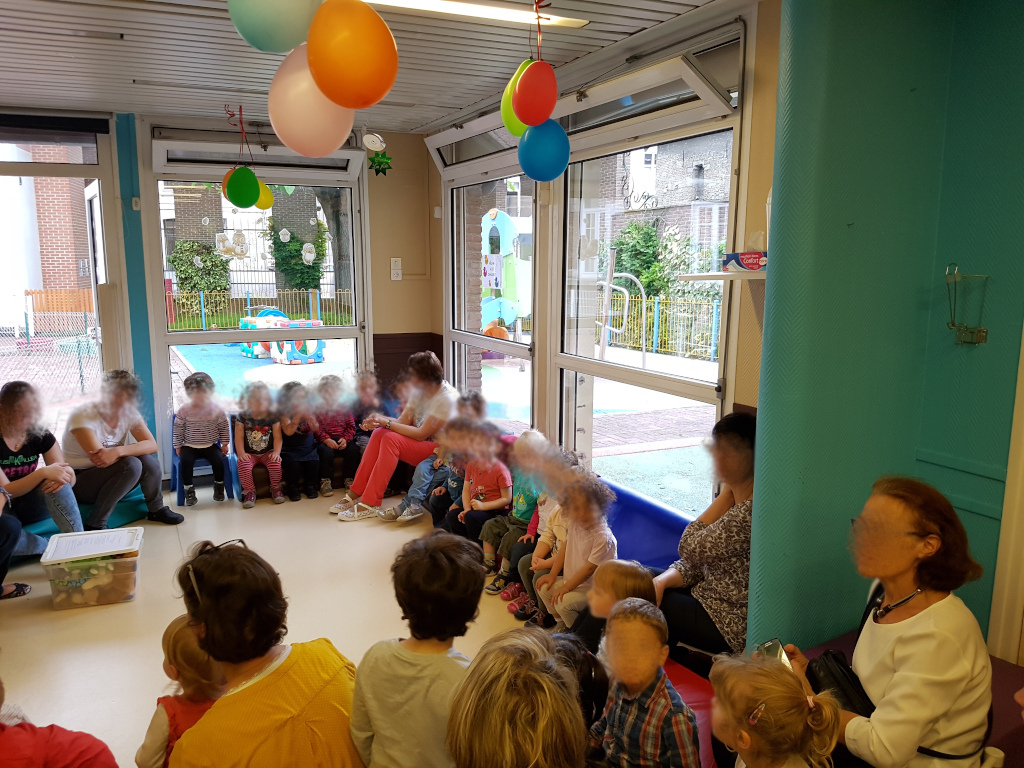
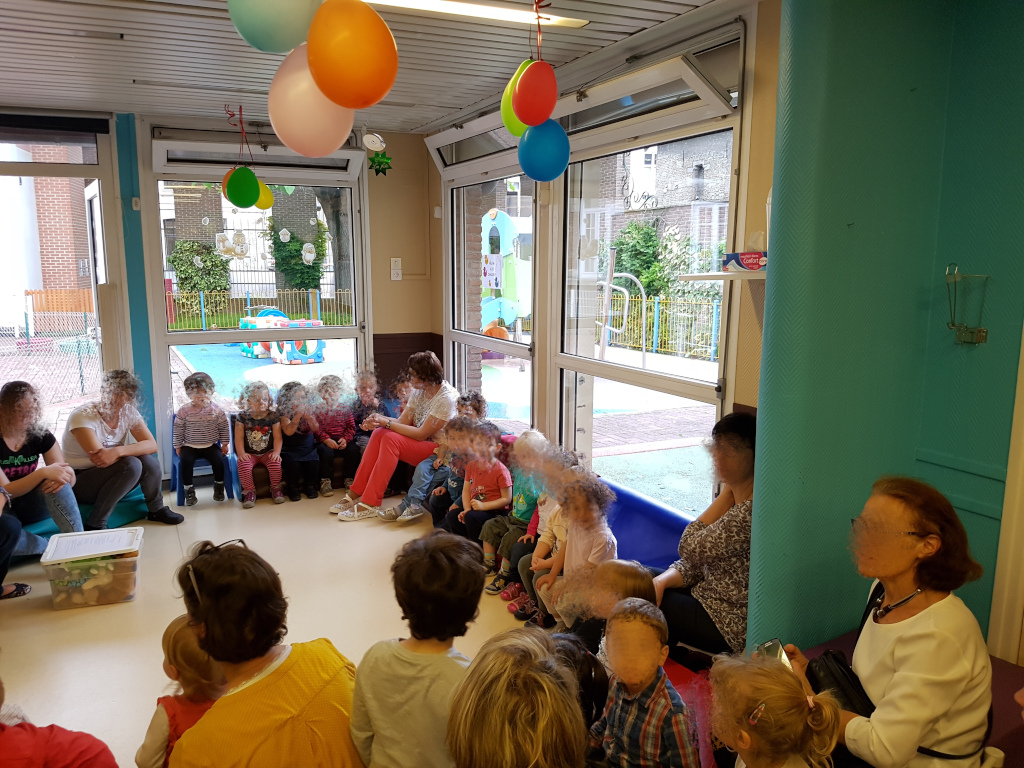
feat(contents): update blog post

diff --git a/contents/blog/2026-01-30-frederic-chereau-douai-toujours.md b/contents/blog/2026-01-30-frederic-chereau-douai-toujours.md
@@ -39,7 +39,7 @@ De son propre aveu, Frédéric Chéreau « préfère un campagne courte et inte
 
 ## Un nom de liste étrange
 
-Après deux mandats à la tête de la ville, Douai Toujours résonne étrangement, s'agit-t-il de subconsciemment installer Frédéric Chéreau comme un maire pour toujours ? Je ne suis pas fan du tout. Je préférai Douai au Cœur, le nom de liste de 2020.
+Après deux mandats à la tête de la ville, Douai Toujours résonne étrangement, s’agit-t-il de subconsciemment installer Frédéric Chéreau comme un maire pour toujours ? Je ne suis pas fan du tout. Je préférai Douai au Cœur, le nom de liste de 2020.
 
 ## Un gros couac sur la communication
 
@@ -91,11 +91,11 @@ Douai Collectif a toujours proposé cette union de second tour au ratio des vote
 
 ## Liste telle que découverte sur le site de Douai Toujours
 
-Elle semble incomplète, probablement dû aux défections exprimées sur Facebook de deux personnes déçues de ne pas être éligible. Je la mettrai à jour quand elle sera de nouveau visible.
+Elle semble incomplète, probablement dû aux défections exprimées sur Facebook de deux personnes déçues de ne pas être éligible. Je la mettrai à jour quand elle sera de nouveau visible (la liste a été mise à jour avec celle déposée, on note l’absence au final de Malek HAMROUNI remplacé par Matteo ROSSI).
 
 1. Frédéric CHEREAU
 2. Agnès De BEUKELAER
-3. Mohamed KHERAKI
+3. Mohamed KHÉRAKI
 4. Auriane DELBARRE
 5. Hocine MAZY
 6. Maryse CARLIER
@@ -111,31 +111,30 @@ Elle semble incomplète, probablement dû aux défections exprimées sur Faceboo
 16. Carolle DIVRECHY
 17. Michaël DOZIERE
 18. Mélanie DECUPPER-LAUD
-19. Sebastien LENCLU
+19. Sebastien LANCLU
 20. Christine DERICQ
 21. Mohamed FELOUKI
-22. Céline VASSEUR
+22. Céline VASSEUR DUHIN
 23. Yves PIQUOT
-24. Maëlys RODICQ-TOUCHON
+24. Maëlys RODICQ TOUCHON
 25. Jimmy BIA
 26. Meïssa LEGRAND-REZGUI
 27. Théo IBERRAKENE
-28. Maelys RODICQ TOUCHON
+28. Sophie GILLOT
 29. Guy LAGACHE
-30. Sylvie FERON
-31. Malek HAMROUNI
-32. Sophie GILOT
+30. Sylvie FÉRON
+31. Matteo ROSSI
+32. Fabienne WINNE
 33. Adam STIVALA
 34. Karine VEYNACHTER
 35. Louis DEBRABANT
-36. Avida OULHACENE
+36. Émilie DENUDT
 37. Emmanuel BEAUMONT
 38. Séverine DUEZ
 39. Samuel MEKA
-40. ?
-41. ?
-42. Fabienne WINNE
+40. Avida OULAHCENE
+41. Alain MERIAUX
+42. Bernadette GWIZDEK
 43. Francis FREMAUX
-44. Bernadette PORA
+44. Denise LEBEAU
 45. Daniel SELLIER
-42. Fabienne WINNE
